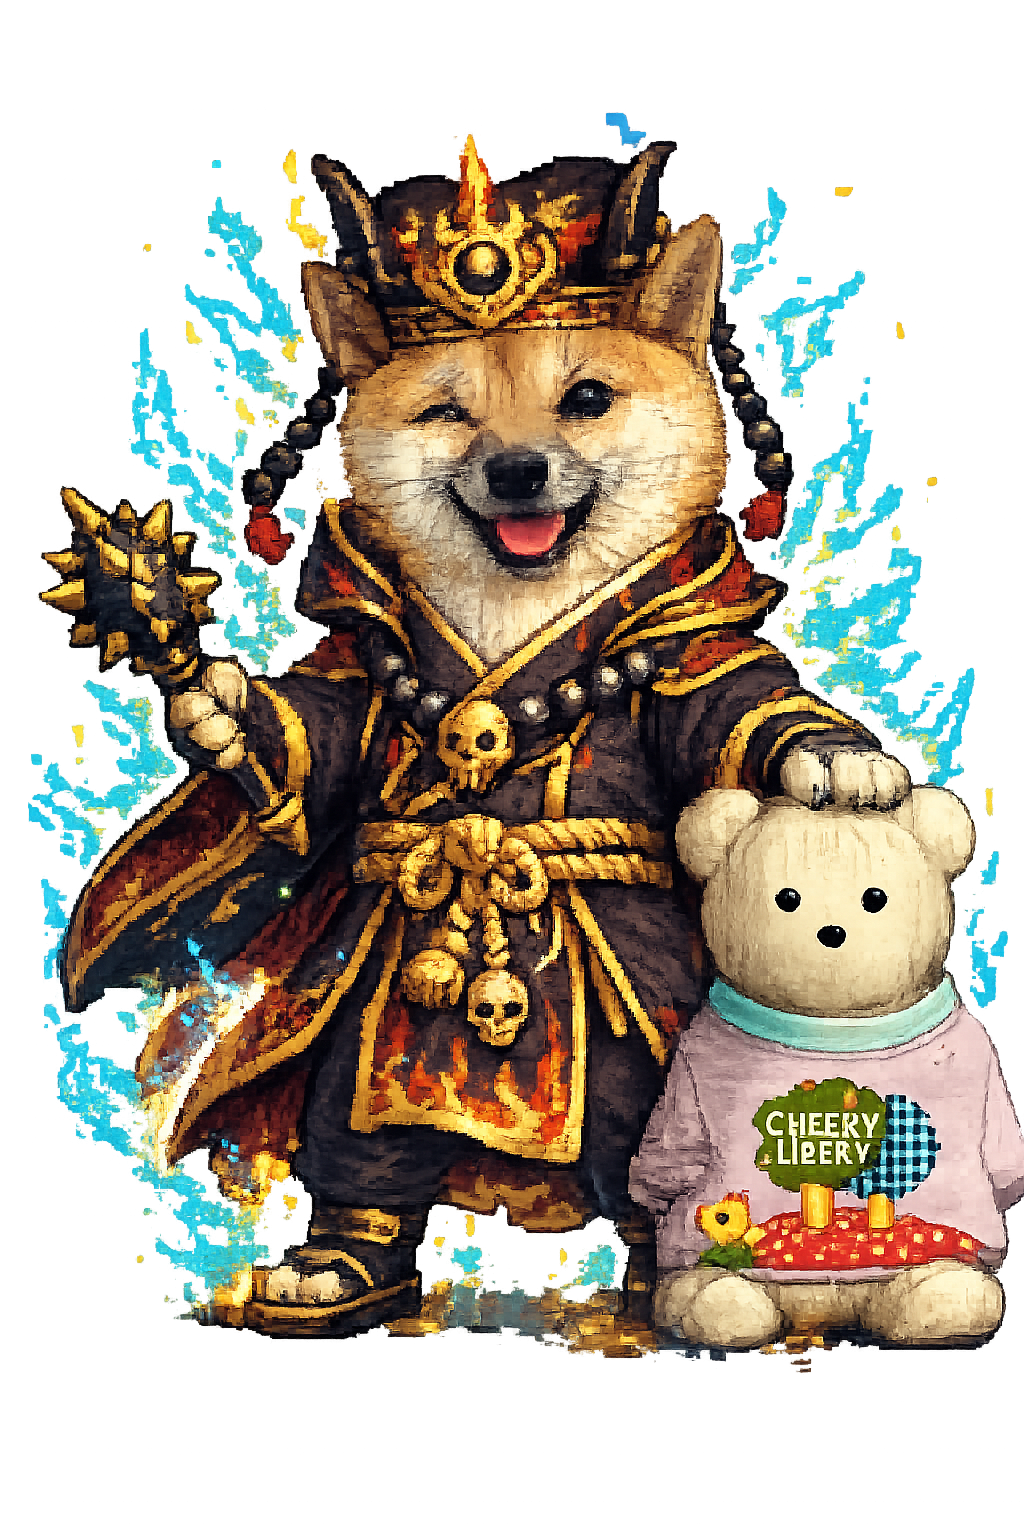
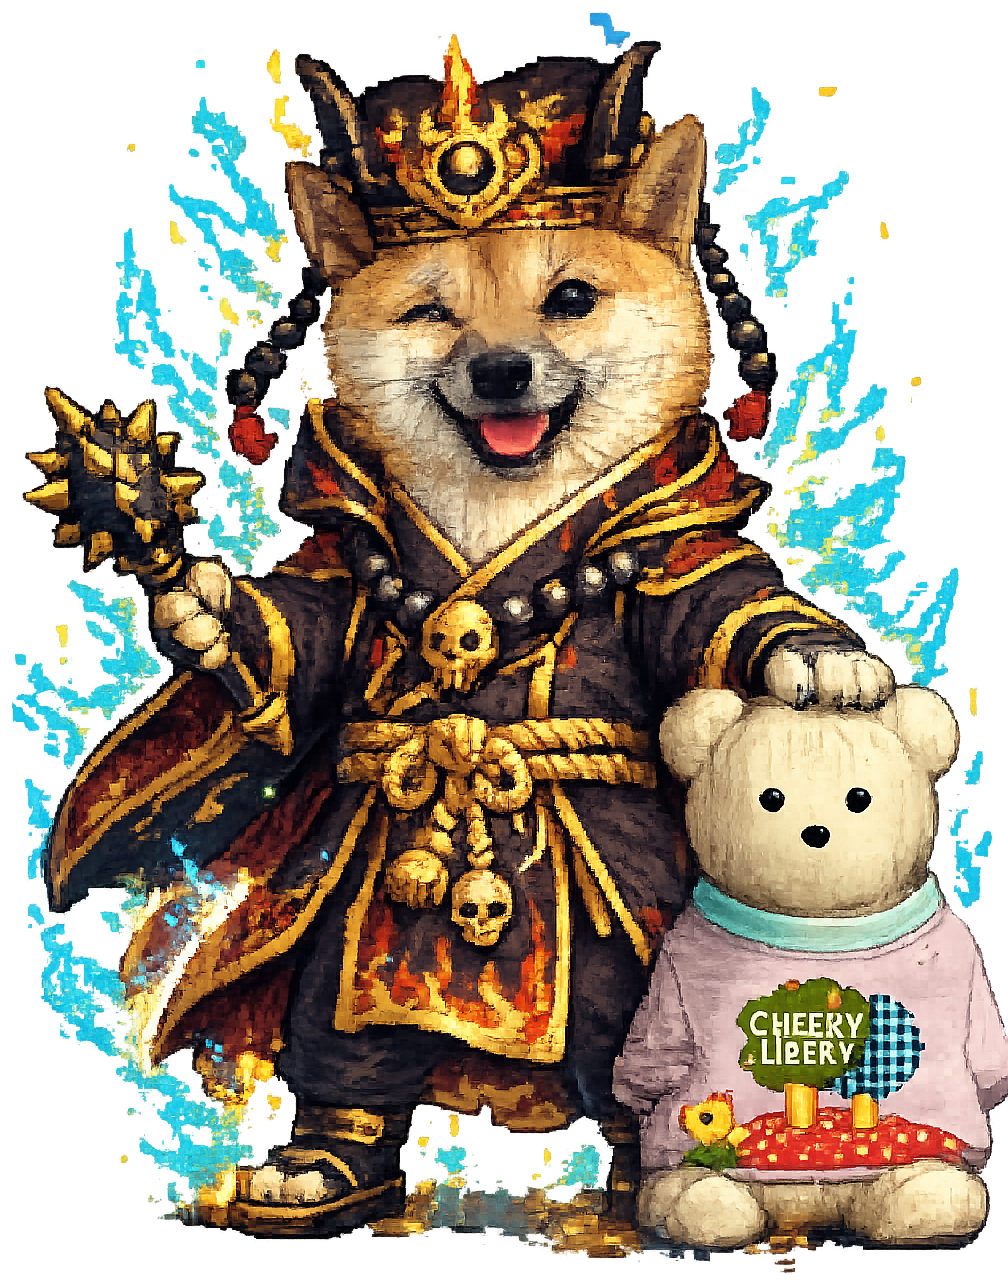
Enrich Instance Sikun: thinking dots, idle blink, double-tap, snap, tight-crop welcome
Instance Sikun additions:
- Thinking state now shows a small bubble with three bouncing dots next
  to the icon while a reply is in flight (instead of a literal "考え中"
  string), and the bob animation now adds a slight head-tilt so sikun
  feels alive while working.
- Idle blink: every 22-42 seconds when sikun is untouched, the icon
  does a quick vertical squish to mimic a blink. Suppressed while
  loading / dragging / input is open so it never interrupts.
- Double-tap on the icon triggers an instant "このメモを3行で要約" for
  the currently active memo — no typing needed.
- 5-quick-tap easter egg shows a cheeky line in a bubble.
- Drag-and-release near a screen edge (within 18px) snaps to the edge
  so sikun parks cleanly.
- Time-of-day placeholder text in the input ("おはよう…", "お疲れさん…",
  "夜更かしか？" etc).

Welcome character:
- Tight-crop sikunlily-character.png to the actual content bounding box
  (1008x1285 from 1024x1536) so there's barely any transparent margin
  left in the PNG itself. CSS wrap re-sized to a portrait-aspect flex
  container so the image renders with no transparent gutter — a last
  attempt to kill the mystery vertical line that appears only in the
  app.

https://claude.ai/code/session_01CMLJqrumC1Fcm45yK6MNig

diff --git a/src/components/InstanceSikun.tsx b/src/components/InstanceSikun.tsx
@@ -20,6 +20,18 @@ const LONG_PRESS_MS = 450;
 const TAP_MAX_MS = 300;
 const TAP_MAX_MOVE = 6;
 const BUBBLE_W = 260;
+const DOUBLE_TAP_MS = 320;
+const EDGE_SNAP_PX = 18;
+const IDLE_BLINK_MIN_MS = 22000;
+const IDLE_BLINK_MAX_MS = 42000;
+
+function timeOfDayPlaceholder(): string {
+  const h = new Date().getHours();
+  if (h >= 5 && h < 11) return 'おはよう、何か聞きたいか？';
+  if (h >= 11 && h < 17) return 'sikunに話す...';
+  if (h >= 17 && h < 22) return 'お疲れさん。何か手伝うか？';
+  return '夜更かしか？短く答えるぞ';
+}
 
 const INSTANCE_SIKUN_SYSTEM = `あなたは「Instance Sikun」、画面上に常駐するフローティング・キャラクター。
 sikunlilyの軽量版で、ユーザーが作業中にちらっと質問する用途専用だ。
@@ -79,6 +91,10 @@ export default function InstanceSikun({ activeNoteId }: InstanceSikunProps) {
   const [lastReply, setLastReply] = useState<string>('');
   const [bubbleVisible, setBubbleVisible] = useState(false);
   const [history, setHistory] = useState<SikunMessage[]>([]);
+  const [idleBlink, setIdleBlink] = useState(false);
+  const [tapStreak, setTapStreak] = useState(0);
+  const lastTapAt = useRef<number>(0);
+  const lastInteractionAt = useRef<number>(Date.now());
 
   // Pre-fetch active note via live query so the context is ready
   // instantly when the user sends — no per-message DB round trip.
@@ -128,17 +144,53 @@ export default function InstanceSikun({ activeNoteId }: InstanceSikunProps) {
     }
   };
 
+  const snapToEdgeIfClose = (p: Pos): Pos => {
+    if (typeof window === 'undefined') return p;
+    const W = window.innerWidth;
+    const next = { ...p };
+    if (next.x < EDGE_SNAP_PX) next.x = 6;
+    else if (next.x + ICON_SIZE > W - EDGE_SNAP_PX) next.x = W - ICON_SIZE - 6;
+    return next;
+  };
+
   const onPointerUp = () => {
     if (longPressTimer.current) { window.clearTimeout(longPressTimer.current); longPressTimer.current = null; }
     const start = pointerStart.current;
     pointerStart.current = null;
     if (!start) return;
     const elapsed = Date.now() - start.ts;
-    if (dragging) { setDragging(false); persistPos(pos); return; }
+    if (dragging) {
+      setDragging(false);
+      const snapped = snapToEdgeIfClose(pos);
+      if (snapped.x !== pos.x) setPos(snapped);
+      persistPos(snapped);
+      lastInteractionAt.current = Date.now();
+      return;
+    }
     if (elapsed <= TAP_MAX_MS && !moved.current) {
-      // Tap behavior:
-      // - If there's a reply hidden, show it
-      // - Otherwise toggle the inline input
+      lastInteractionAt.current = Date.now();
+      const now = Date.now();
+      const since = now - lastTapAt.current;
+      lastTapAt.current = now;
+
+      // Double tap → summarise active memo
+      if (since < DOUBLE_TAP_MS && activeNote) {
+        setTapStreak(0);
+        void sendQuickAction('このメモを3行で要約してくれ。');
+        return;
+      }
+
+      // 5-tap easter egg
+      const nextStreak = since < 500 ? tapStreak + 1 : 1;
+      setTapStreak(nextStreak);
+      if (nextStreak >= 5) {
+        setTapStreak(0);
+        setLastReply('くすぐったいぞ⚔️ そんなに連打されるとは思わなんだ。');
+        setBubbleVisible(true);
+        return;
+      }
+
+      // Regular tap
       if (lastReply && !bubbleVisible && mode === 'closed') {
         setBubbleVisible(true);
       } else if (mode === 'closed') {
@@ -150,8 +202,38 @@ export default function InstanceSikun({ activeNoteId }: InstanceSikunProps) {
     }
   };
 
-  const sendMessage = async () => {
+  // Idle blink animation: randomly trigger a subtle blink when sikun has
+  // been untouched for a while. Stops while user is interacting.
+  useEffect(() => {
+    let timeoutId: number;
+    const scheduleNext = () => {
+      const delay = IDLE_BLINK_MIN_MS + Math.random() * (IDLE_BLINK_MAX_MS - IDLE_BLINK_MIN_MS);
+      timeoutId = window.setTimeout(() => {
+        const sinceInteraction = Date.now() - lastInteractionAt.current;
+        if (sinceInteraction > IDLE_BLINK_MIN_MS && !loading && !dragging && mode === 'closed') {
+          setIdleBlink(true);
+          window.setTimeout(() => setIdleBlink(false), 380);
+        }
+        scheduleNext();
+      }, delay);
+    };
+    scheduleNext();
+    return () => window.clearTimeout(timeoutId);
+  }, [loading, dragging, mode]);
+
+  const sendQuickAction = (presetText: string) => {
+    setInput('');
+    return doSend(presetText);
+  };
+
+  const sendMessage = () => {
     const text = input.trim();
+    if (!text || loading) return;
+    setInput('');
+    return doSend(text);
+  };
+
+  const doSend = async (text: string) => {
     if (!text || loading) return;
     const apiKey = localStorage.getItem('lily_gemini_api_key') || '';
     if (!apiKey) {
@@ -160,10 +242,10 @@ export default function InstanceSikun({ activeNoteId }: InstanceSikunProps) {
       setMode('closed');
       return;
     }
-    setInput('');
+    lastInteractionAt.current = Date.now();
     setLoading(true);
-    setBubbleVisible(true);
-    setLastReply('考え中...');
+    setBubbleVisible(false);
+    setLastReply('');
 
     const userMsg: SikunMessage = { id: `u${Date.now()}`, role: 'user', text, ts: Date.now() };
     const nextHistory = [...history, userMsg];
@@ -190,6 +272,7 @@ export default function InstanceSikun({ activeNoteId }: InstanceSikunProps) {
         .replace(/^#+\s*/gm, '')
         .trim() || '...';
       setLastReply(replyClean);
+      setBubbleVisible(true);
       const sikunMsg: SikunMessage = { id: `s${Date.now()}`, role: 'sikun', text: replyClean, ts: Date.now() };
       const finalHistory = [...nextHistory, sikunMsg];
       setHistory(finalHistory);
@@ -197,6 +280,7 @@ export default function InstanceSikun({ activeNoteId }: InstanceSikunProps) {
       setMode('closed');
     } catch (err) {
       setLastReply(`エラー: ${err instanceof Error ? err.message : '失敗'}`);
+      setBubbleVisible(true);
     } finally {
       setLoading(false);
     }
@@ -216,7 +300,7 @@ export default function InstanceSikun({ activeNoteId }: InstanceSikunProps) {
   return (
     <>
       <div
-        className={`sikun-icon ${dragging ? 'dragging' : ''} ${loading ? 'thinking' : ''}`}
+        className={`sikun-icon ${dragging ? 'dragging' : ''} ${loading ? 'thinking' : ''} ${idleBlink ? 'blink' : ''}`}
         style={{ left: pos.x, top: pos.y }}
         onPointerDown={onPointerDown}
         onPointerMove={onPointerMove}
@@ -233,7 +317,15 @@ export default function InstanceSikun({ activeNoteId }: InstanceSikunProps) {
         <img src="/sikun-character.png" alt="sikun" draggable={false} />
       </div>
 
-      {bubbleVisible && lastReply && (
+      {loading && (
+        <div className="sikun-thinking-bubble" style={bubbleStyle} aria-hidden>
+          <span className="dot d1" />
+          <span className="dot d2" />
+          <span className="dot d3" />
+        </div>
+      )}
+
+      {!loading && bubbleVisible && lastReply && (
         <div className="sikun-bubble" style={bubbleStyle} role="status">
           <button className="sikun-bubble-close" onClick={() => setBubbleVisible(false)} aria-label="閉じる">
             <X size={12} />
@@ -247,7 +339,7 @@ export default function InstanceSikun({ activeNoteId }: InstanceSikunProps) {
           <input
             ref={inputRef}
             className="sikun-input"
-            placeholder="sikunに話す..."
+            placeholder={timeOfDayPlaceholder()}
             value={input}
             onChange={e => setInput(e.target.value)}
             onKeyDown={e => {
@@ -294,7 +386,43 @@ export default function InstanceSikun({ activeNoteId }: InstanceSikunProps) {
         }
         @keyframes sikun-bob {
           0%, 100% { transform: translateY(0); }
-          50% { transform: translateY(-3px); }
+          50% { transform: translateY(-4px) rotate(-3deg); }
+        }
+        .sikun-icon.blink {
+          animation: sikun-blink 0.38s ease-in-out;
+        }
+        @keyframes sikun-blink {
+          0%, 100% { transform: scaleY(1); }
+          50% { transform: scaleY(0.6); }
+        }
+
+        .sikun-thinking-bubble {
+          position: fixed;
+          display: flex;
+          align-items: center;
+          justify-content: center;
+          gap: 4px;
+          padding: 8px 12px;
+          background: var(--background, #fff);
+          border: 1px solid var(--border, rgba(0,0,0,0.12));
+          border-radius: 14px;
+          box-shadow: 0 6px 20px rgba(0,0,0,0.18);
+          width: auto;
+          min-width: 48px;
+          z-index: 9998;
+        }
+        .sikun-thinking-bubble .dot {
+          width: 6px;
+          height: 6px;
+          background: var(--primary, #6b46c1);
+          border-radius: 50%;
+          animation: sikun-dot 1.1s ease-in-out infinite;
+        }
+        .sikun-thinking-bubble .dot.d2 { animation-delay: 0.18s; }
+        .sikun-thinking-bubble .dot.d3 { animation-delay: 0.36s; }
+        @keyframes sikun-dot {
+          0%, 70%, 100% { transform: translateY(0); opacity: 0.4; }
+          35% { transform: translateY(-5px); opacity: 1; }
         }
         .sikun-icon img {
           width: 100%;

diff --git a/src/components/AIChat.tsx b/src/components/AIChat.tsx
@@ -2393,8 +2393,8 @@ export default function AIChat({ onOpenSettings, onSwitchTab, onNoteCreated }: A
         .note-chip.active { background: var(--primary); color: white; border-color: var(--primary); }
         .messages-list { flex: 1; overflow-y: auto; padding: 16px 14px; display: flex; flex-direction: column; gap: 14px; padding-bottom: 20px; }
         .welcome-screen { display: flex; flex-direction: column; align-items: center; gap: 12px; padding: 20px 0; text-align: center; }
-        .welcome-lily-wrap { width: 180px; height: 180px; animation: float 3s ease-in-out infinite; }
-        .welcome-lily { width: 100%; height: 100%; object-fit: contain; }
+        .welcome-lily-wrap { width: 160px; height: 200px; animation: float 3s ease-in-out infinite; display: flex; align-items: center; justify-content: center; }
+        .welcome-lily { max-width: 100%; max-height: 100%; width: auto; height: auto; object-fit: contain; image-rendering: -webkit-optimize-contrast; display: block; }
         @keyframes float { 0%, 100% { transform: translateY(0); } 50% { transform: translateY(-10px); } }
         .welcome-text { font-size: 0.9rem; color: var(--fg-muted); line-height: 1.6; margin: 0; }
         .suggestions { display: flex; flex-wrap: wrap; gap: 8px; justify-content: center; max-width: 400px; }